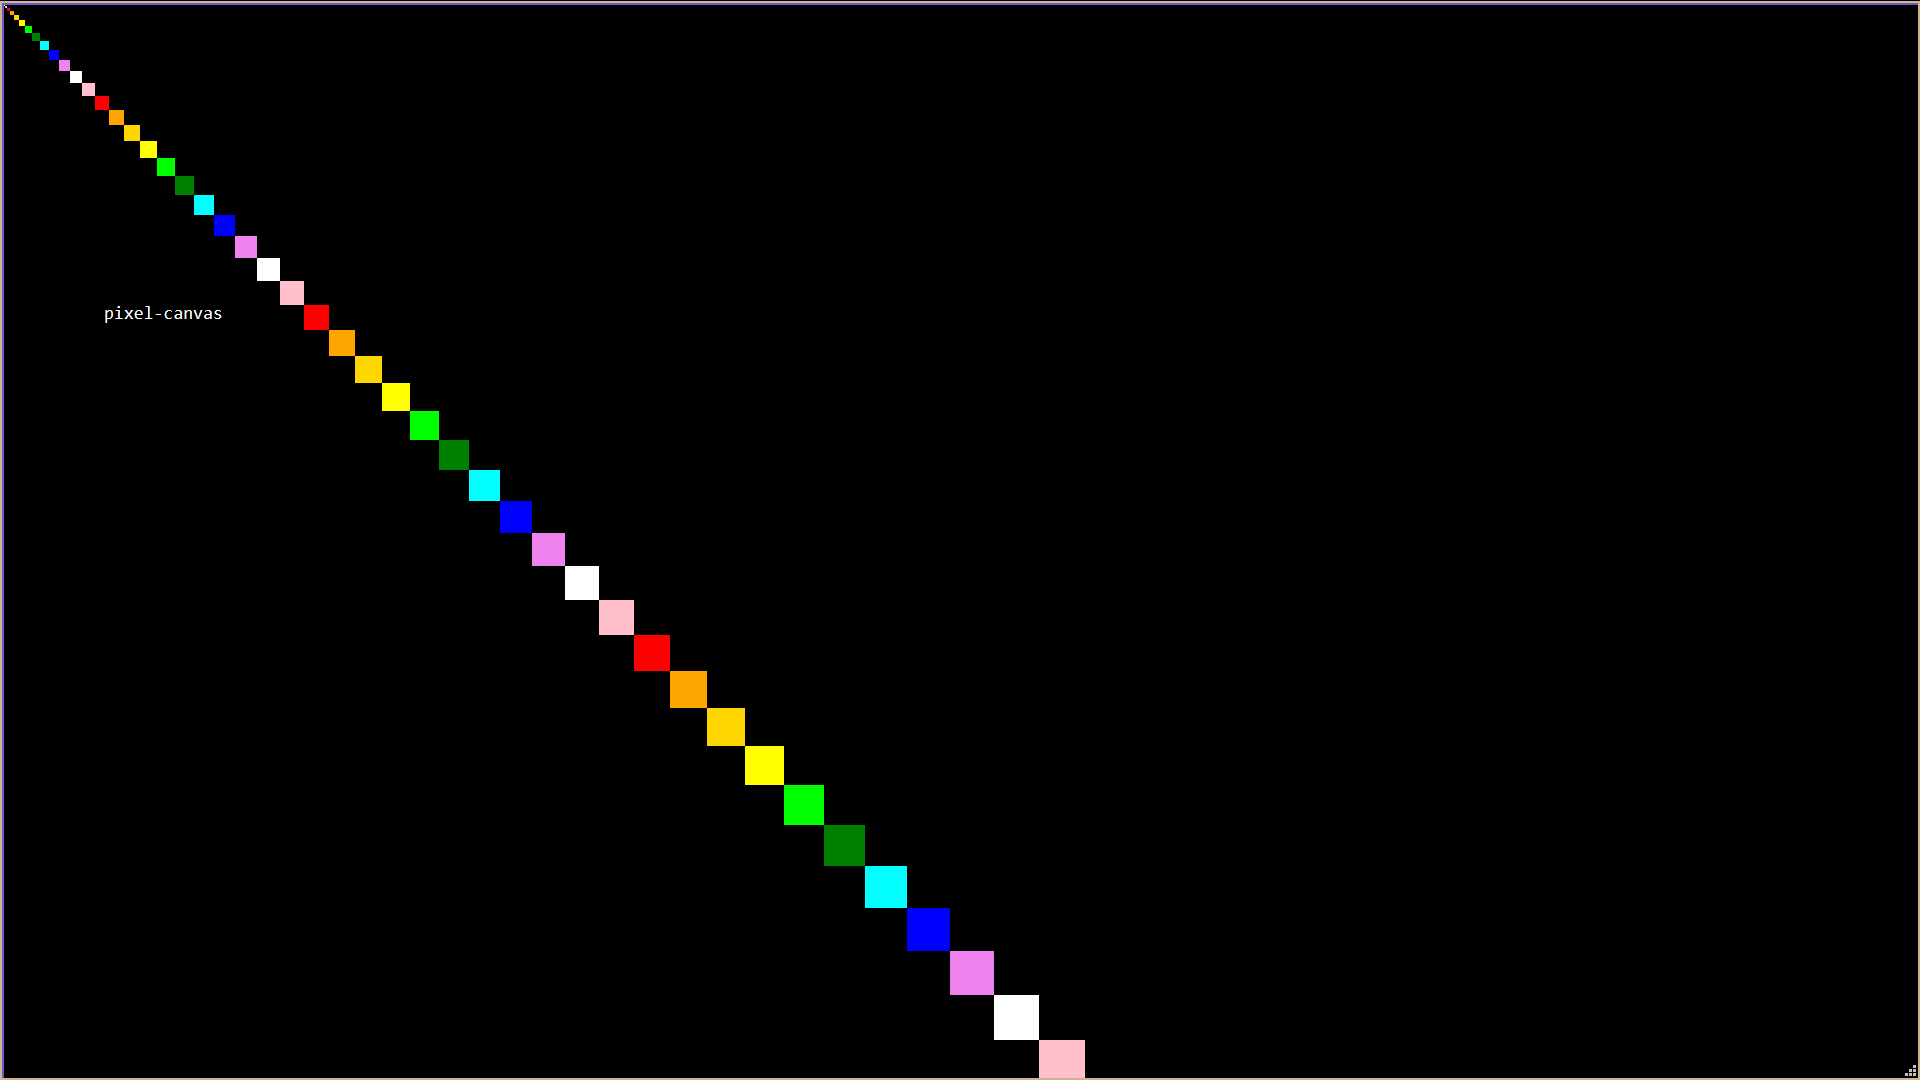
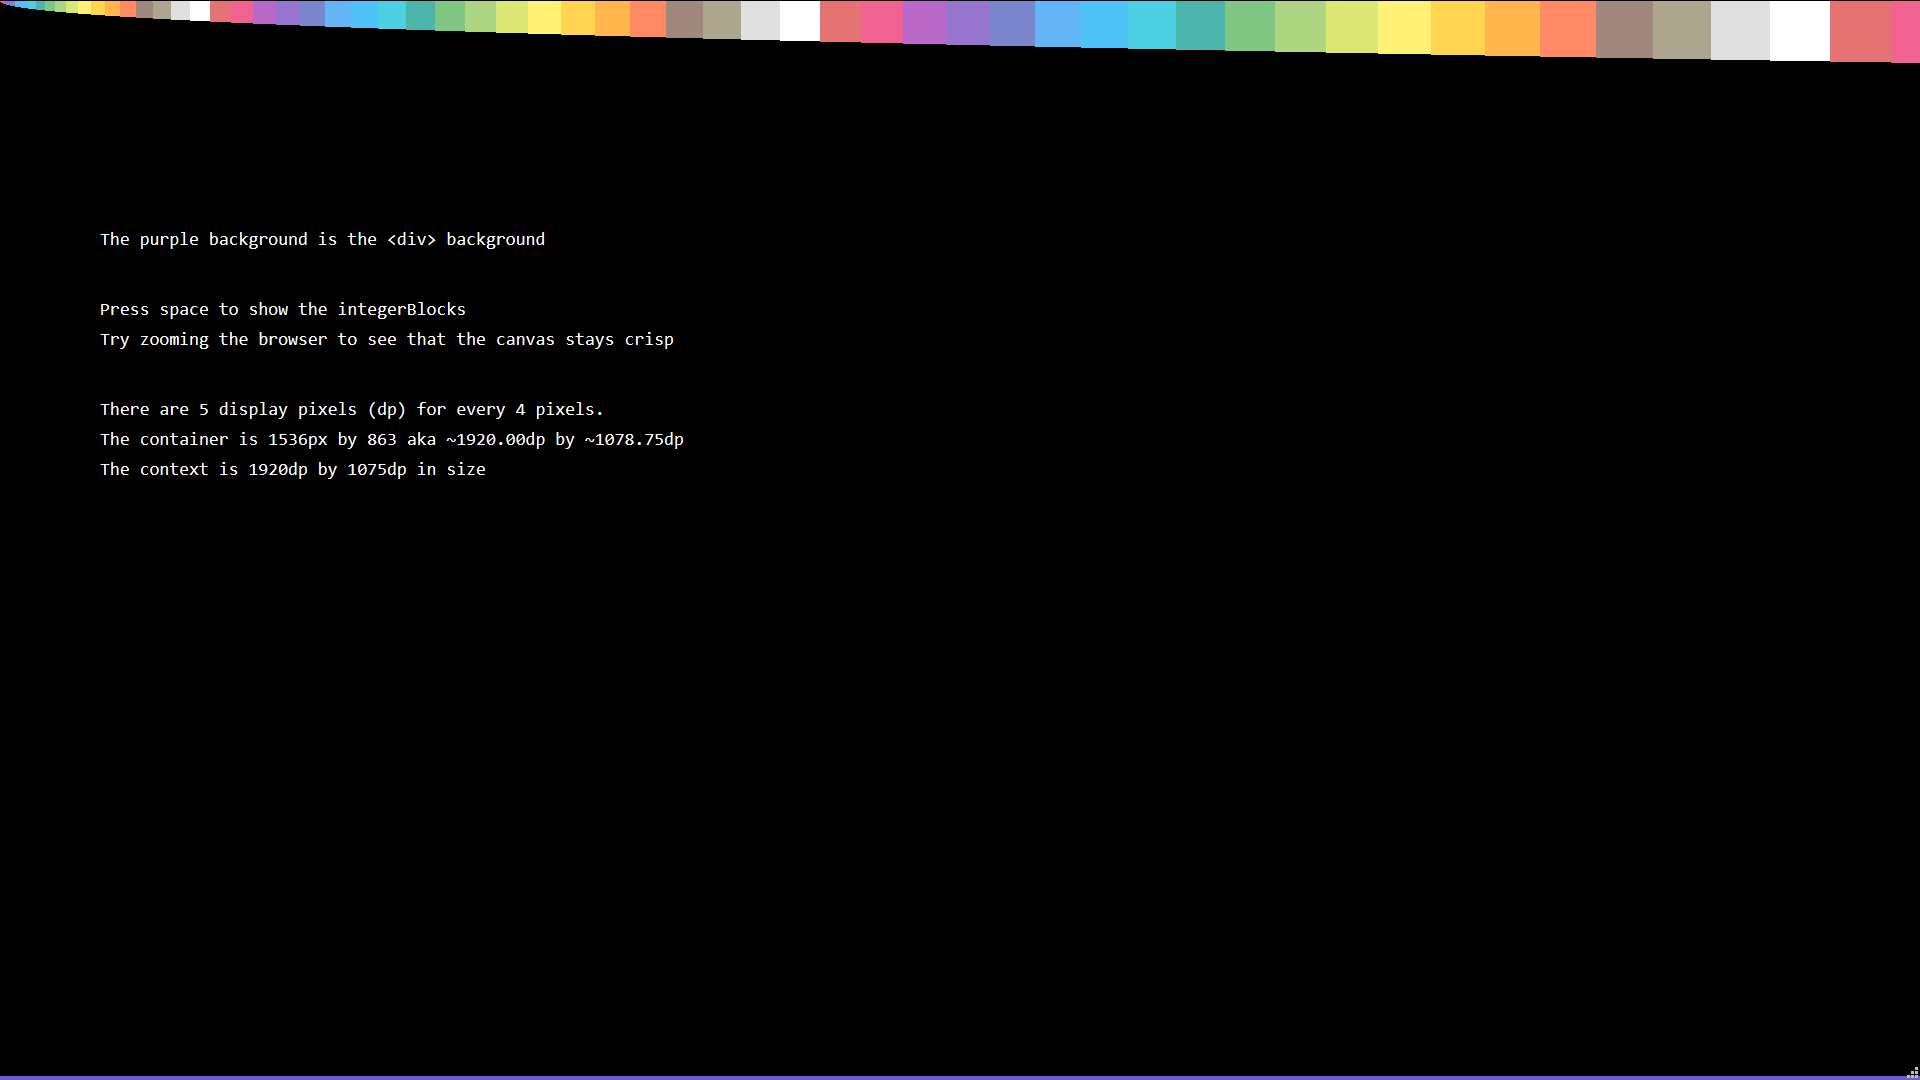
Replaced example.png
Because I also changed the example.

Changed region(s): [[0.0, 0.1222, 1.0, 1.0], [0.0, 0.0, 1.0, 0.0611], [0.0312, 0.0611, 0.0625, 0.1222]]

diff --git a/dist/lib.js b/dist/lib.js
@@ -1,2 +1,2 @@
-var t,e,i,s,n,r=function(t,e,i){if(!e.has(t))throw new TypeError("attempted to set private field on non-instance");return e.set(t,i),i},o=function(t,e){if(!e.has(t))throw new TypeError("attempted to get private field on non-instance");return e.get(t)};class l{constructor(h,c=!1){t.set(this,l.getIntegerBlock()),e.set(this,{countX:0,countY:0}),this.containerResizedObserver=new ResizeObserver(this.containerResized.bind(this)),this.redraw=()=>{},i.set(this,void 0),s.set(this,void 0),n.set(this,void 0),r(this,i,h),this.registerListeners(),r(this,s,document.createElement("canvas"));const a=o(this,s).getContext("2d",{alpha:c});if(null==a)throw new TypeError('HTMLElement.getContext("2d") returned null!');r(this,n,a),h.appendChild(o(this,s))}static getIntegerBlock(){const t=window.devicePixelRatio;for(let e=1;e<l.integerBlockLimit;e++)if(Number.isInteger(t*e))return{css:e,display:t*e};return{css:1,display:1}}get integerBlock(){return{css:0|o(this,t).css,display:0|o(this,t).display}}get integerBlockCount(){return{countX:0|o(this,e).countX,countY:0|o(this,e).countY}}setCanvasCSSSize(t,e){o(this,s).style.width=`${t}px`,o(this,s).style.height=`${e}px`}setContextSize(t,e){o(this,s).width=t,o(this,s).height=e,this.redraw()}containerResized(t){const i=t[0].borderBoxSize,s=i.inlineSize,n=i.blockSize,{css:r,display:l}=this.integerBlock,h=s/r|0,c=n/r|0;o(this,e).countX=h,o(this,e).countY=c,this.setCanvasCSSSize(h*r,c*r),this.setContextSize(h*l,c*l)}registerListeners(){this.containerResizedObserver.observe(o(this,i)),window.addEventListener("resize",this.setIntegerBlock.bind(this))}setIntegerBlock(){r(this,t,l.getIntegerBlock())}get container(){return o(this,i)}get canvas(){return o(this,s)}get ctx(){return o(this,n)}set fillStyle(t){o(this,n).fillStyle=t}fillRectColor(t,e,i,s,r){o(this,n).fillStyle=r,o(this,n).fillRect(0|t,0|e,0|i,0|s)}fillRect(t,e,i,s){o(this,n).fillRect(0|t,0|e,0|i,0|s)}fillSquare(t,e,i){o(this,n).fillRect(0|t,0|e,0|i,0|i)}strokeSquare(t,e,i){o(this,n).strokeRect(0|t,0|e,0|i,0|i)}fillSquareColor(t,e,i,s){o(this,n).fillStyle=s,o(this,n).fillRect(0|t,0|e,0|i,0|i)}}t=new WeakMap,e=new WeakMap,i=new WeakMap,s=new WeakMap,n=new WeakMap,l.integerBlockLimit=100;export default l;
+var t,e,i,s,n,r=function(t,e,i){if(!e.has(t))throw new TypeError("attempted to set private field on non-instance");return e.set(t,i),i},o=function(t,e){if(!e.has(t))throw new TypeError("attempted to get private field on non-instance");return e.get(t)};class l{constructor(h,c=!1){t.set(this,l.getIntegerBlock()),e.set(this,{countX:0,countY:0}),this.containerResizedObserver=new ResizeObserver(this.containerResized.bind(this)),this.redraw=()=>{},i.set(this,void 0),s.set(this,void 0),n.set(this,void 0),r(this,i,h),this.registerListeners(),r(this,s,document.createElement("canvas"));const a=o(this,s).getContext("2d",{alpha:c});if(null==a)throw new TypeError('HTMLElement.getContext("2d") returned null!');r(this,n,a),h.appendChild(o(this,s))}static getIntegerBlock(){const t=window.devicePixelRatio;for(let e=1;e<l.integerBlockLimit;e++)if(Number.isInteger(t*e))return{css:e,display:t*e};return{css:1,display:1}}get integerBlock(){return{css:0|o(this,t).css,display:0|o(this,t).display}}get integerBlockCount(){return{countX:0|o(this,e).countX,countY:0|o(this,e).countY}}setCanvasCSSSize(t,e){o(this,s).style.width=`${t}px`,o(this,s).style.height=`${e}px`}setContextSize(t,e){o(this,s).width=t,o(this,s).height=e,this.redraw()}containerResized(t){const i=t[0].contentBoxSize,s=i.inlineSize,n=i.blockSize,{css:r,display:l}=this.integerBlock,h=s/r|0,c=n/r|0;o(this,e).countX=h,o(this,e).countY=c,this.setCanvasCSSSize(h*r,c*r),this.setContextSize(h*l,c*l)}registerListeners(){this.containerResizedObserver.observe(o(this,i)),window.addEventListener("resize",this.setIntegerBlock.bind(this))}setIntegerBlock(){r(this,t,l.getIntegerBlock())}get container(){return o(this,i)}get canvas(){return o(this,s)}get ctx(){return o(this,n)}set fillStyle(t){o(this,n).fillStyle=t}fillRectColor(t,e,i,s,r){o(this,n).fillStyle=r,o(this,n).fillRect(0|t,0|e,0|i,0|s)}fillRect(t,e,i,s){o(this,n).fillRect(0|t,0|e,0|i,0|s)}fillSquare(t,e,i){o(this,n).fillRect(0|t,0|e,0|i,0|i)}strokeSquare(t,e,i){o(this,n).strokeRect(0|t,0|e,0|i,0|i)}fillSquareColor(t,e,i,s){o(this,n).fillStyle=s,o(this,n).fillRect(0|t,0|e,0|i,0|i)}}t=new WeakMap,e=new WeakMap,i=new WeakMap,s=new WeakMap,n=new WeakMap,l.integerBlockLimit=100;export default l;
 //# sourceMappingURL=lib.js.map

diff --git a/example/example.js b/example/example.js
@@ -40,11 +40,12 @@ function drawText() {
    ctx.ctx.font = "18px Consolas";
    ctx.ctx.fillStyle = "white";
    ctx.ctx.textBaseline = "top";
-   ctx.ctx.fillText("The tan line is the size of the <div>", 100, 200);
-   ctx.ctx.fillText("The purple line is the size of the <canvas>", 100, 230);
+   ctx.ctx.fillText("The purple background is the <div> background", 100, 230);
    ctx.ctx.fillText("Press space to show the integerBlocks", 100, 300);
-   ctx.ctx.fillText("Try zooming the browser to see if the canvas stays crisp", 100, 330);
-   ctx.ctx.fillText(`There are ${ctx.integerBlock.display} display pixels for every ${ctx.integerBlock.css} pixels.`, 100, 400);
+   ctx.ctx.fillText("Try zooming the browser to see that the canvas stays crisp", 100, 330);
+   ctx.ctx.fillText(`There are ${ctx.integerBlock.display} display pixels (dp) for every ${ctx.integerBlock.css} pixels.`, 100, 400);
+   ctx.ctx.fillText(`The container is ${ctx.container.clientWidth}px by ${ctx.container.clientHeight} aka ~${(ctx.container.clientWidth * window.devicePixelRatio).toFixed(2)}dp by ~${(ctx.container.clientHeight * window.devicePixelRatio).toFixed(2)}dp`, 100, 430);
+   ctx.ctx.fillText(`The context is ${ctx.canvas.width}dp by ${ctx.canvas.height}dp in size`, 100, 460);
 }
 
 /** @param {CanvasRenderingContext2D} ctx */

diff --git a/src/lib.ts b/src/lib.ts
@@ -63,7 +63,7 @@ export default class PixelCanvas {
 
    private containerResized(entries: ResizeObserverEntry[]) {
       const container = entries[0];
-      const containerSize = container.borderBoxSize;
+      const containerSize = container.contentBoxSize;
       const containerWidth = containerSize.inlineSize;
       const containerHeight = containerSize.blockSize;
 

diff --git a/example/style.css b/example/style.css
@@ -10,16 +10,11 @@ body {
 
 #canvas-container {
    box-sizing: border-box;
-   border: 2px solid tan;
+   background-color: slateblue;
    height: 50%;
    width: 50%;
    resize: both;
    overflow: hidden;
    max-width: 100%;
    max-height: 100%;
-   background: black;
-}
-
-canvas {
-   border: 2px solid slateblue;
 }
